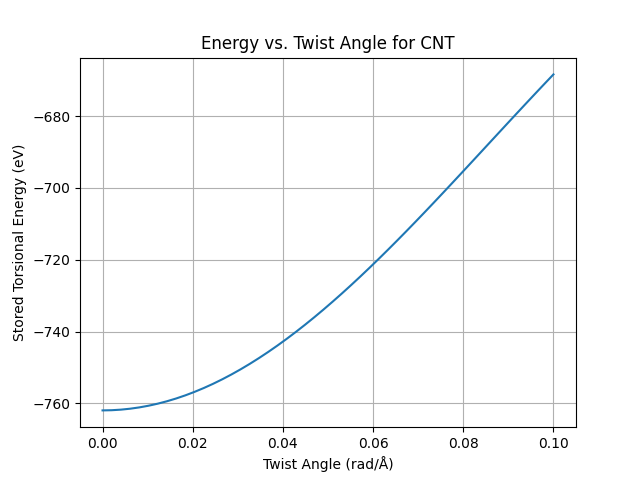
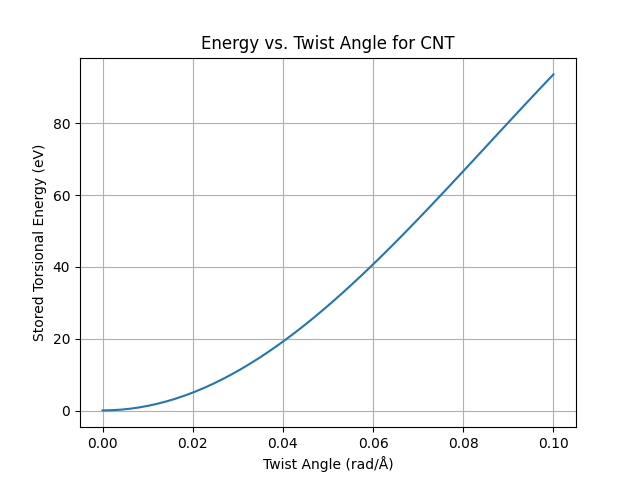
energy storage fixed

Changed region(s): [[0.0, 0.3125, 0.9062, 0.7188], [0.0625, 0.8125, 0.125, 0.875], [0.0625, 0.2188, 0.125, 0.2812]]

diff --git a/CNT_energy_storage/visualize_structure.py b/CNT_energy_storage/visualize_structure.py
@@ -13,7 +13,7 @@ m = 6  # Chirality index m
 length = 10  # Number of unit cells along the tube axis
 
 # --- Mechanical Deformation ---
-twist_angle = 0.08  # Radians of twist per Ångström along the z-axis
+twist_angle = 0  # Radians of twist per Ångström along the z-axis
 
 # --- Morse Potential Parameters for C-C Bond ---
 D_e = 6.0  # eV, bond dissociation energy
@@ -25,7 +25,8 @@ cutoff = 2.0 # Å, cutoff distance for considering atomic interactions
 
 def morse_potential(r):
     """Return Morse potential energy for distance r (in Å)."""
-    return D_e * (1 - np.exp(-a * (r - r0)))**2 - D_e
+    # Shift so that equilibrium bond (r0) has 0 energy
+    return D_e * (1 - np.exp(-a * (r - r0)))**2
 
 def build_cnt(n, m, length):
     """Build a CNT using ASE."""
@@ -70,22 +71,10 @@ def plot_cnt(ax, cnt: Atoms, bonds, title="CNT Structure"):
     ax.clear()
     ax.scatter(x, y, z, c='k', s=20)
 
-    if bonds:
-        energies = [b['energy'] for b in bonds]
-        min_energy = min(energies) if energies else 0.0
-        max_energy = max(energies) if energies else 1.0
-        
-        # Handle case where all energies are the same
-        if min_energy == max_energy:
-            max_energy = min_energy + 1e-6
-        
-        norm = Normalize(vmin=min_energy, vmax=max_energy)
-
-        for bond in bonds:
-            i, j = bond['indices']
-            energy = bond['energy']
-            color = coolwarm(norm(energy))
-            ax.plot([x[i], x[j]], [y[i], y[j]], [z[i], z[j]], color=color, lw=1.5)
+    # Draw all bonds in blue without energy-based coloring
+    for bond in bonds:
+        i, j = bond['indices']
+        ax.plot([x[i], x[j]], [y[i], y[j]], [z[i], z[j]], color='blue', lw=1.5)
 
     ax.set_xlabel("X (Å)")
     ax.set_ylabel("Y (Å)")

diff --git a/CNT_energy_storage/main.py b/CNT_energy_storage/main.py
@@ -31,7 +31,8 @@ cutoff = 2.0 # Å, cutoff distance for considering atomic interactions.
 
 def morse_potential(r):
     """Return Morse potential energy for distance r (in Å)."""
-    return D_e * (1 - np.exp(-a * (r - r0)))**2 - D_e
+    # Shift so that equilibrium bond (r0) has 0 energy
+    return D_e * (1 - np.exp(-a * (r - r0)))**2
 
 # --- CNT builder ---
 def build_cnt(n, m, length):
